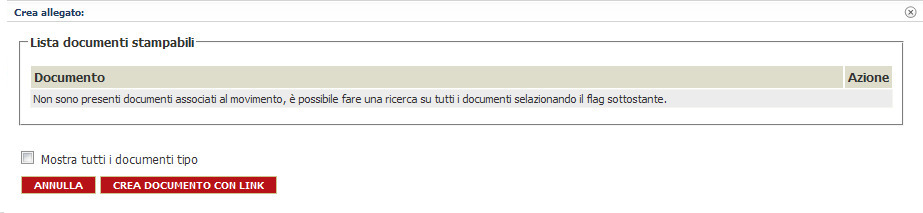
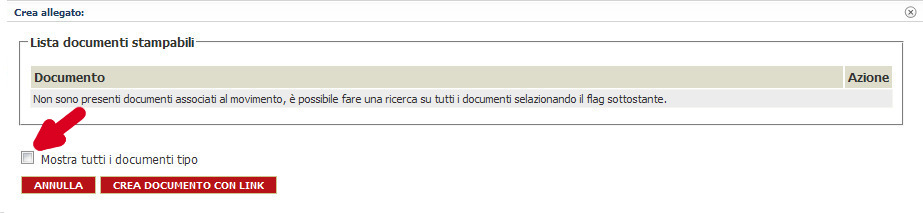
Updates utilizzo_dellapplicativo_di_back_office/gestione_di_una_pratica.md
Auto commit by GitBook Editor

Changed region(s): [[0.0303, 0.507, 0.091, 0.7042]]

diff --git a/utilizzo_dellapplicativo_di_back_office/gestione_di_una_pratica.md b/utilizzo_dellapplicativo_di_back_office/gestione_di_una_pratica.md
@@ -23,7 +23,5 @@ Non ci soffermeremo sulla spiegazione di alcuni tasti di cui abbiamo già parlat
 ![](/assets/btn_cre_allegato.jpg) il pulsante, permette l' apertura della scheda seguente
 
 ![](/assets/sk_crea_allegato.jpg)
-la scheda permette la selezione di un documento contenenti dei campi precedentemente definiti, allegati al movimento in fase di setting della procedura.
-
-
+la scheda permette la selezione di un documento contenenti dei campi precedentemente definiti, allegati al movimento in fase di setting della procedura. Se tali documenti non sono presenti \(come si vede nel messaggio\) è possibile \(spuntando il flag
 
